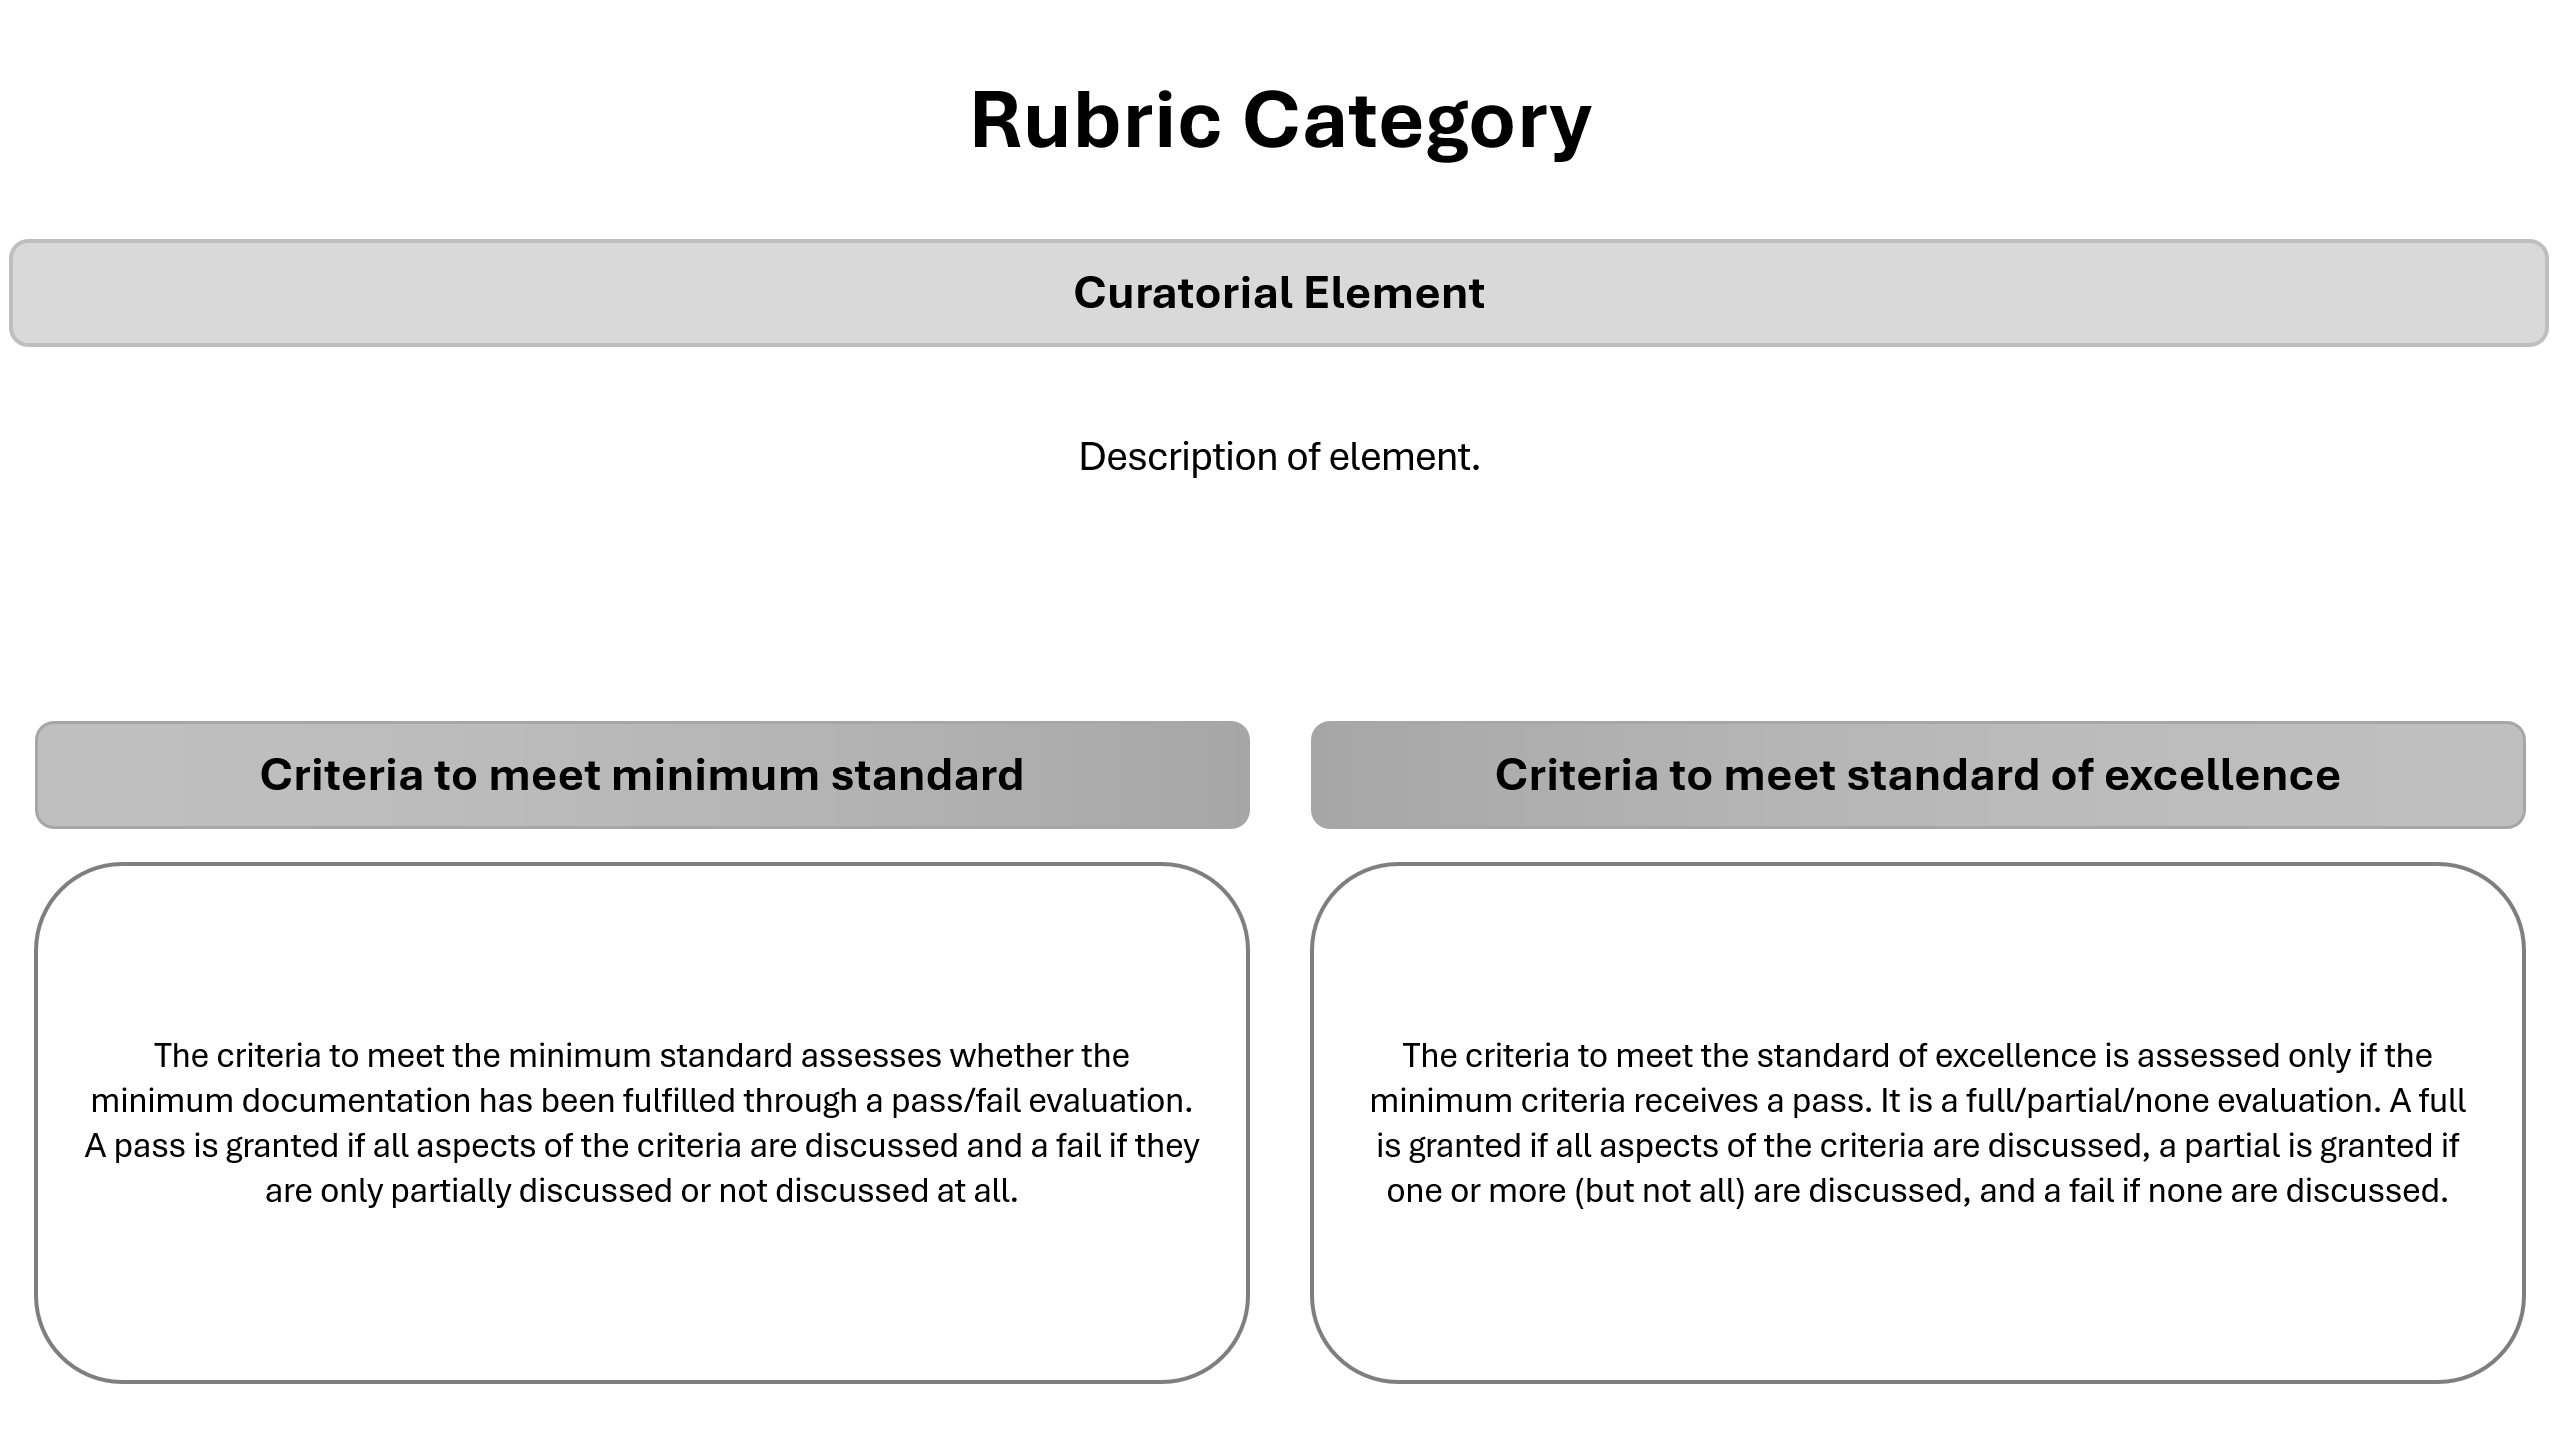
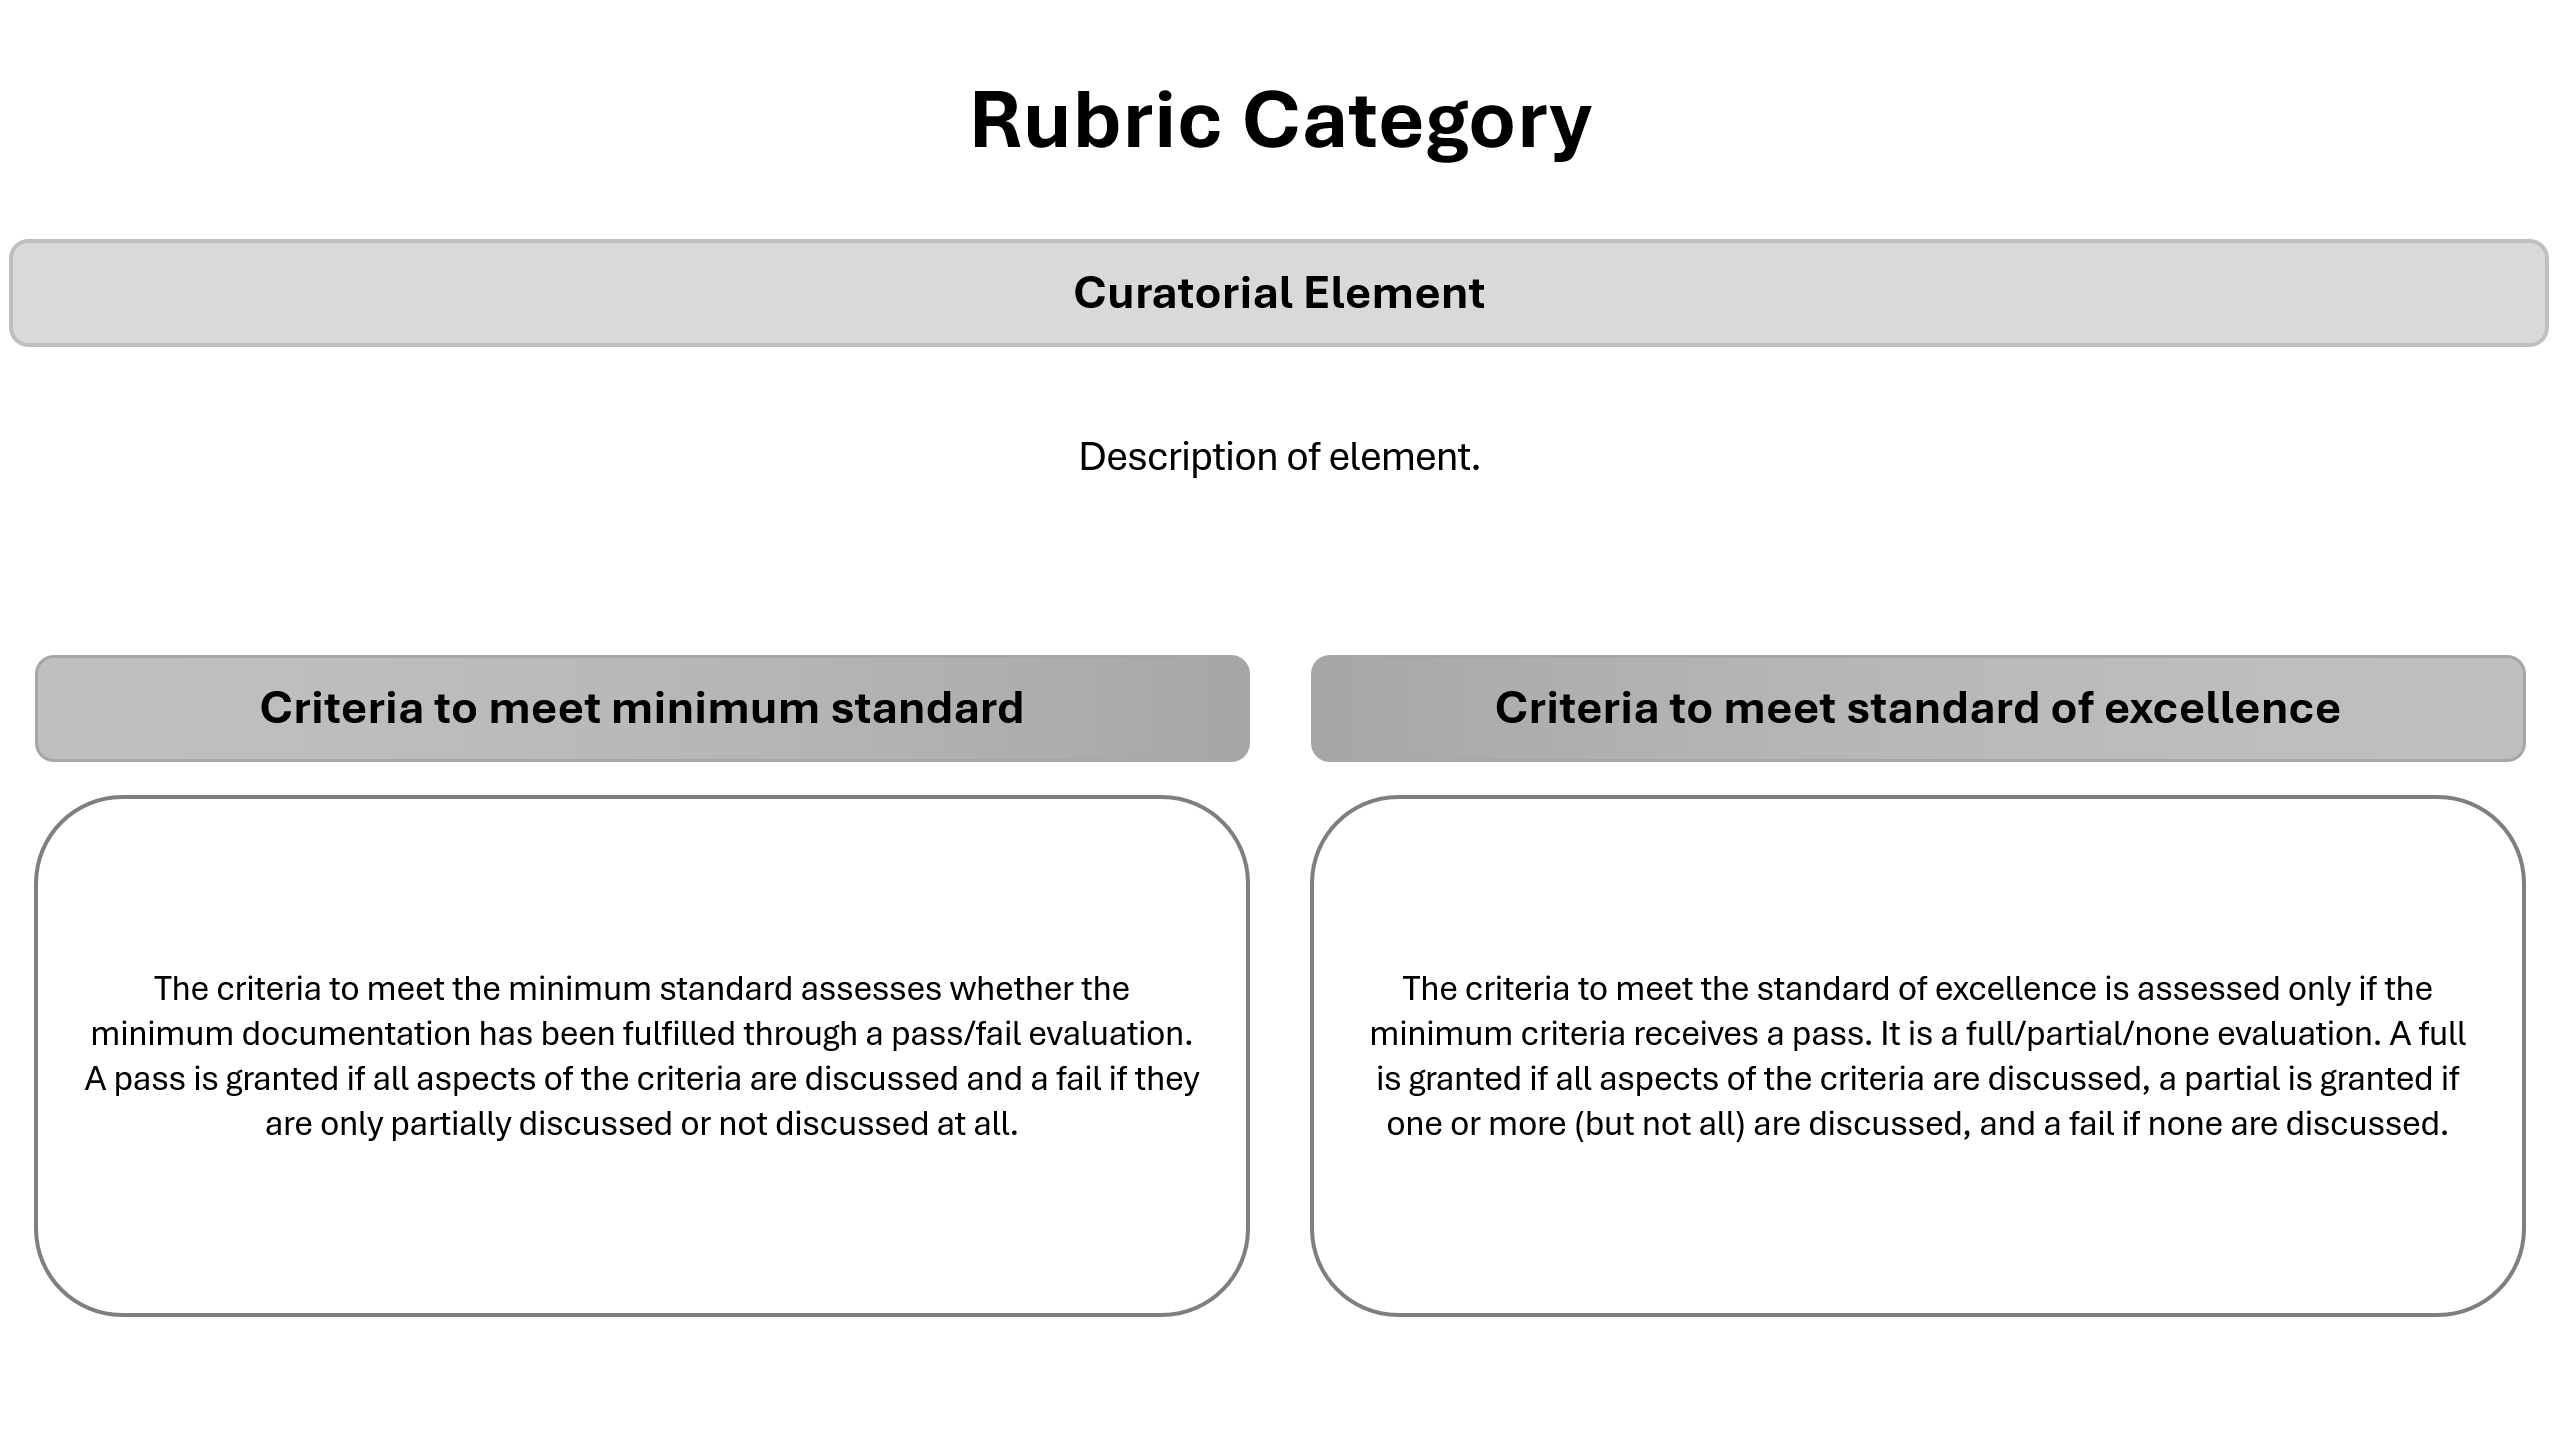
carousel update

diff --git a/datacurationinML/evaluationframework/index.md b/datacurationinML/evaluationframework/index.md
@@ -31,4 +31,4 @@ carousels:
 {% include section.html %}
 ## Evaluation Framework
 
-{% include carousel.html height="10%" carouselControlSize="20px" noOfSlides="19" number="1" %}
+{% include carousel.html height="60%" carouselControlSize="20px" noOfSlides="19" number="1" %}
